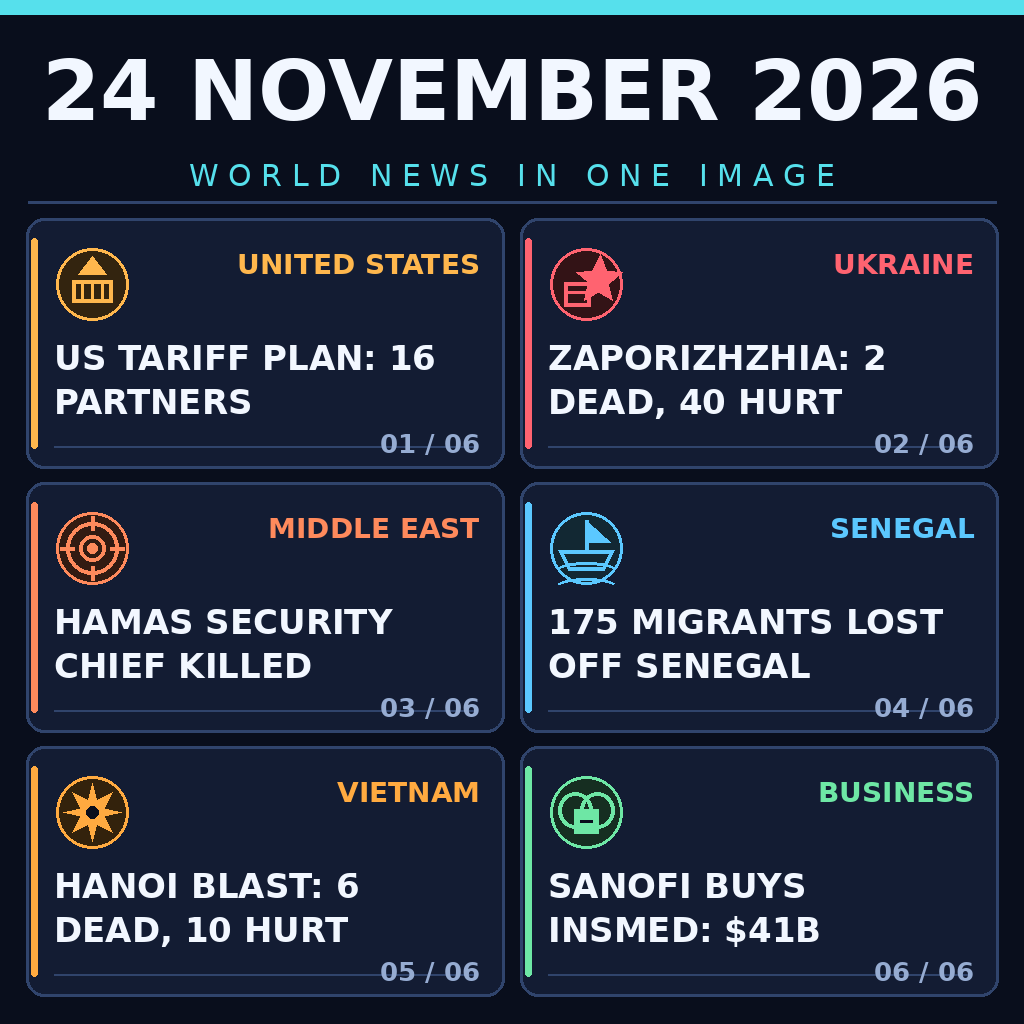
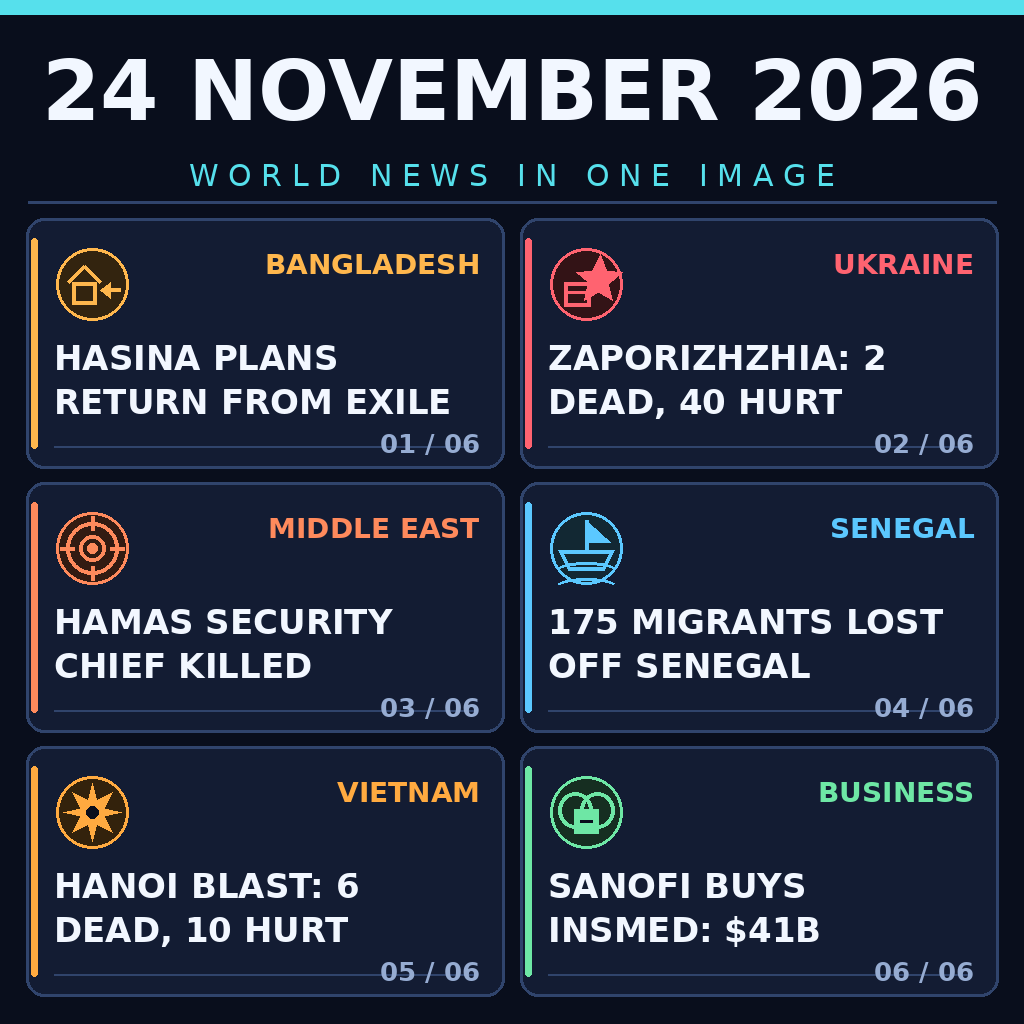
Swap tariff panel for verified Hasina story; add Why it lands

Changed region(s): [[0.0625, 0.3125, 0.4375, 0.4062], [0.2188, 0.25, 0.4688, 0.2812], [0.0625, 0.25, 0.125, 0.3125]]

diff --git a/make_image.py b/make_image.py
@@ -80,6 +80,12 @@ def draw_icon(draw, cx, cy, kind, color):
                         cy + int(radius * __import__("math").sin(angle))))
         draw.polygon(pts, fill=color)
         draw.ellipse([cx - 6, cy - 6, cx + 6, cy + 6], fill=BG)
+    elif kind == "return":
+        draw.rectangle([cx - 20, cy - 2, cx + 4, cy + 20], outline=color, width=4)
+        draw.line([(cx - 24, cy - 2), (cx - 8, cy - 18)], fill=color, width=4)
+        draw.line([(cx - 8, cy - 18), (cx + 8, cy - 2)], fill=color, width=4)
+        draw.line([(cx + 28, cy + 6), (cx + 10, cy + 6)], fill=color, width=4)
+        draw.polygon([(cx + 18, cy - 2), (cx + 8, cy + 6), (cx + 18, cy + 14)], fill=color)
     elif kind == "deal":
         draw.ellipse([cx - 28, cy - 20, cx + 6, cy + 16], outline=color, width=4)
         draw.ellipse([cx - 6, cy - 20, cx + 28, cy + 16], outline=color, width=4)
@@ -88,7 +94,7 @@ def draw_icon(draw, cx, cy, kind, color):
 
 
 PANELS = [
-    ("UNITED STATES", "US TARIFF PLAN: 16 PARTNERS", (255, 183, 77), "tariff"),
+    ("BANGLADESH", "HASINA PLANS RETURN FROM EXILE", (255, 183, 77), "return"),
     ("UKRAINE", "ZAPORIZHZHIA: 2 DEAD, 40 HURT", (255, 99, 112), "strike"),
     ("MIDDLE EAST", "HAMAS SECURITY CHIEF KILLED", (255, 138, 92), "target"),
     ("SENEGAL", "175 MIGRANTS LOST OFF SENEGAL", (91, 200, 255), "boat"),

diff --git a/README.md b/README.md
@@ -2,7 +2,7 @@
 [![rank](https://make.fun/badge/news-image-20261124/andsfx/news-image-20261124-48h/rank.svg)](https://make.fun/bounty/news-image-20261124/leaderboard?utm_source=github&utm_medium=readme&utm_campaign=news-image-20261124)
 [![reward](https://make.fun/badge/news-image-20261124/andsfx/news-image-20261124-48h/reward.svg)](https://make.fun/bounty/news-image-20261124?utm_source=github&utm_medium=readme&utm_campaign=news-image-20261124)
 
-A single 1024x1024 image that summarises the world news of 24 November 2026. Six panels cover the United States, Ukraine, the Middle East, Senegal, Vietnam and business, each with a simple geometric icon and a short, readable label. `main.py` copies the prebuilt PNG into the required output directory.
+A single 1024x1024 image that summarises the world news of 24 November 2026. Six panels cover Bangladesh, Ukraine, the Middle East, Senegal, Vietnam and business, each with a simple geometric icon and a short, readable label. `main.py` copies the prebuilt PNG into the required output directory.
 
 ## Run it
 
@@ -12,6 +12,10 @@ mkdir -p out && MAKEFUN_OUTPUT_DIR=out python3 main.py
 
 ## Why this image sums up the day
 
-The date is spelled out in the header, and every panel reports a story reported on 24 November 2026: US plans for tariffs on 16 trading partners, the Russian strike on Zaporizhzhia that killed 2 and wounded 40, the Israeli strike that killed Hamas internal security chief Naim Abu Nahal, about 175 migrants unaccounted for after a boat left Dakar, the Hanoi explosion that killed 6 and injured 10, and Sanofi's $41 billion takeover of Insmed.
+The date is spelled out in the header, and every panel reports a story reported on 24 November 2026: Sheikh Hasina's plan to return from exile in Bangladesh, the Russian strike on Zaporizhzhia that killed 2 and wounded 40, the Israeli strike that killed Hamas internal security chief Naim Abu Nahal, about 175 migrants unaccounted for after a boat left Dakar, the Hanoi explosion that killed 6 and injured 10, and Sanofi's $41 billion takeover of Insmed.
 
-Sources: Reuters, AP, Politico, Sanofi press release, Times of Israel. The image is generated offline by `make_image.py`, and the entry program only copies a fixed byte-for-byte PNG.
+Sources: Reuters, AP, Sanofi press release, Times of Israel. The image is generated offline by `make_image.py`, and the entry program only copies a fixed byte-for-byte PNG.
+
+## Why it lands
+
+The header states 24 November 2026 in large type, so the judge sees the date immediately. Every panel carries a story reported that same day from a different part of the world. Short labels and bold high-contrast text keep each headline readable when the image appears at roughly 300 pixels. Simple geometric icons identify the topics without relying on tiny detail.
